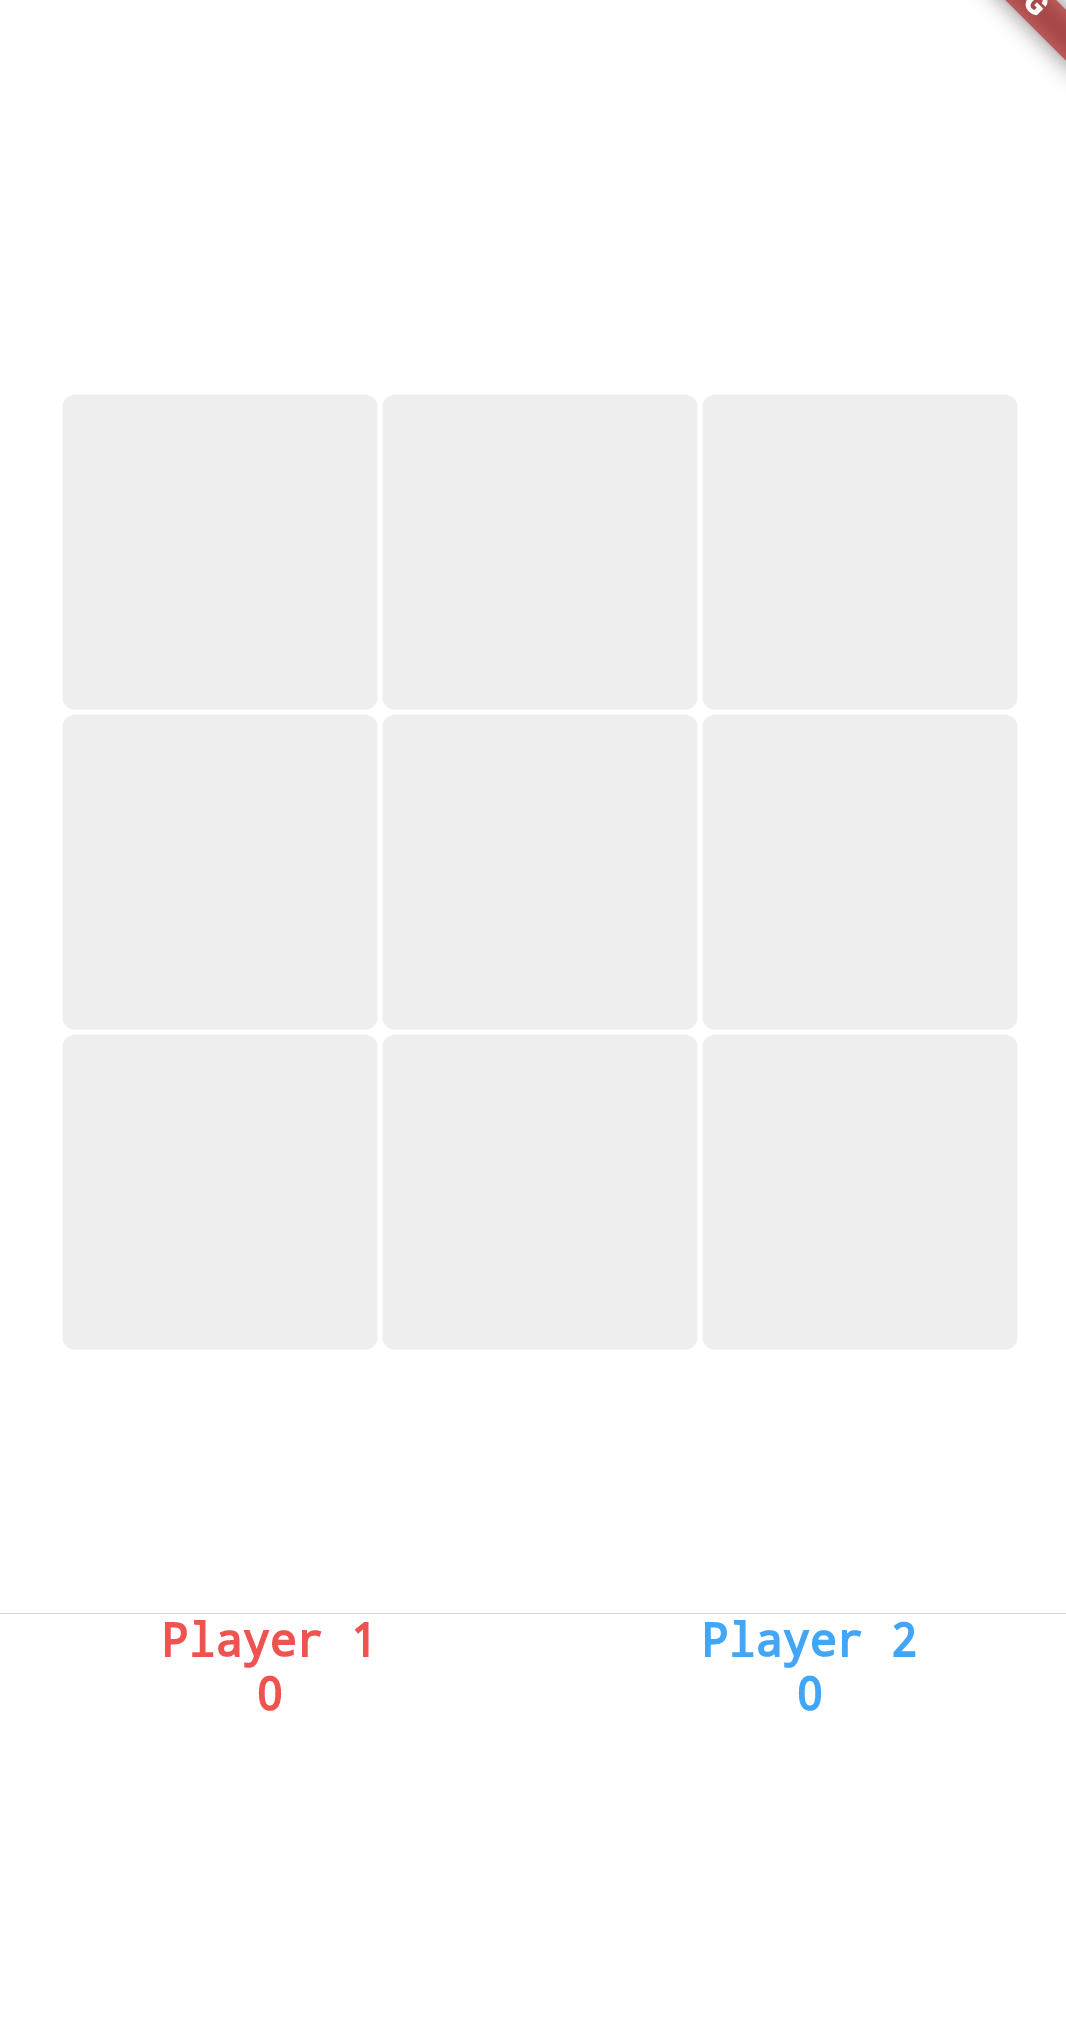
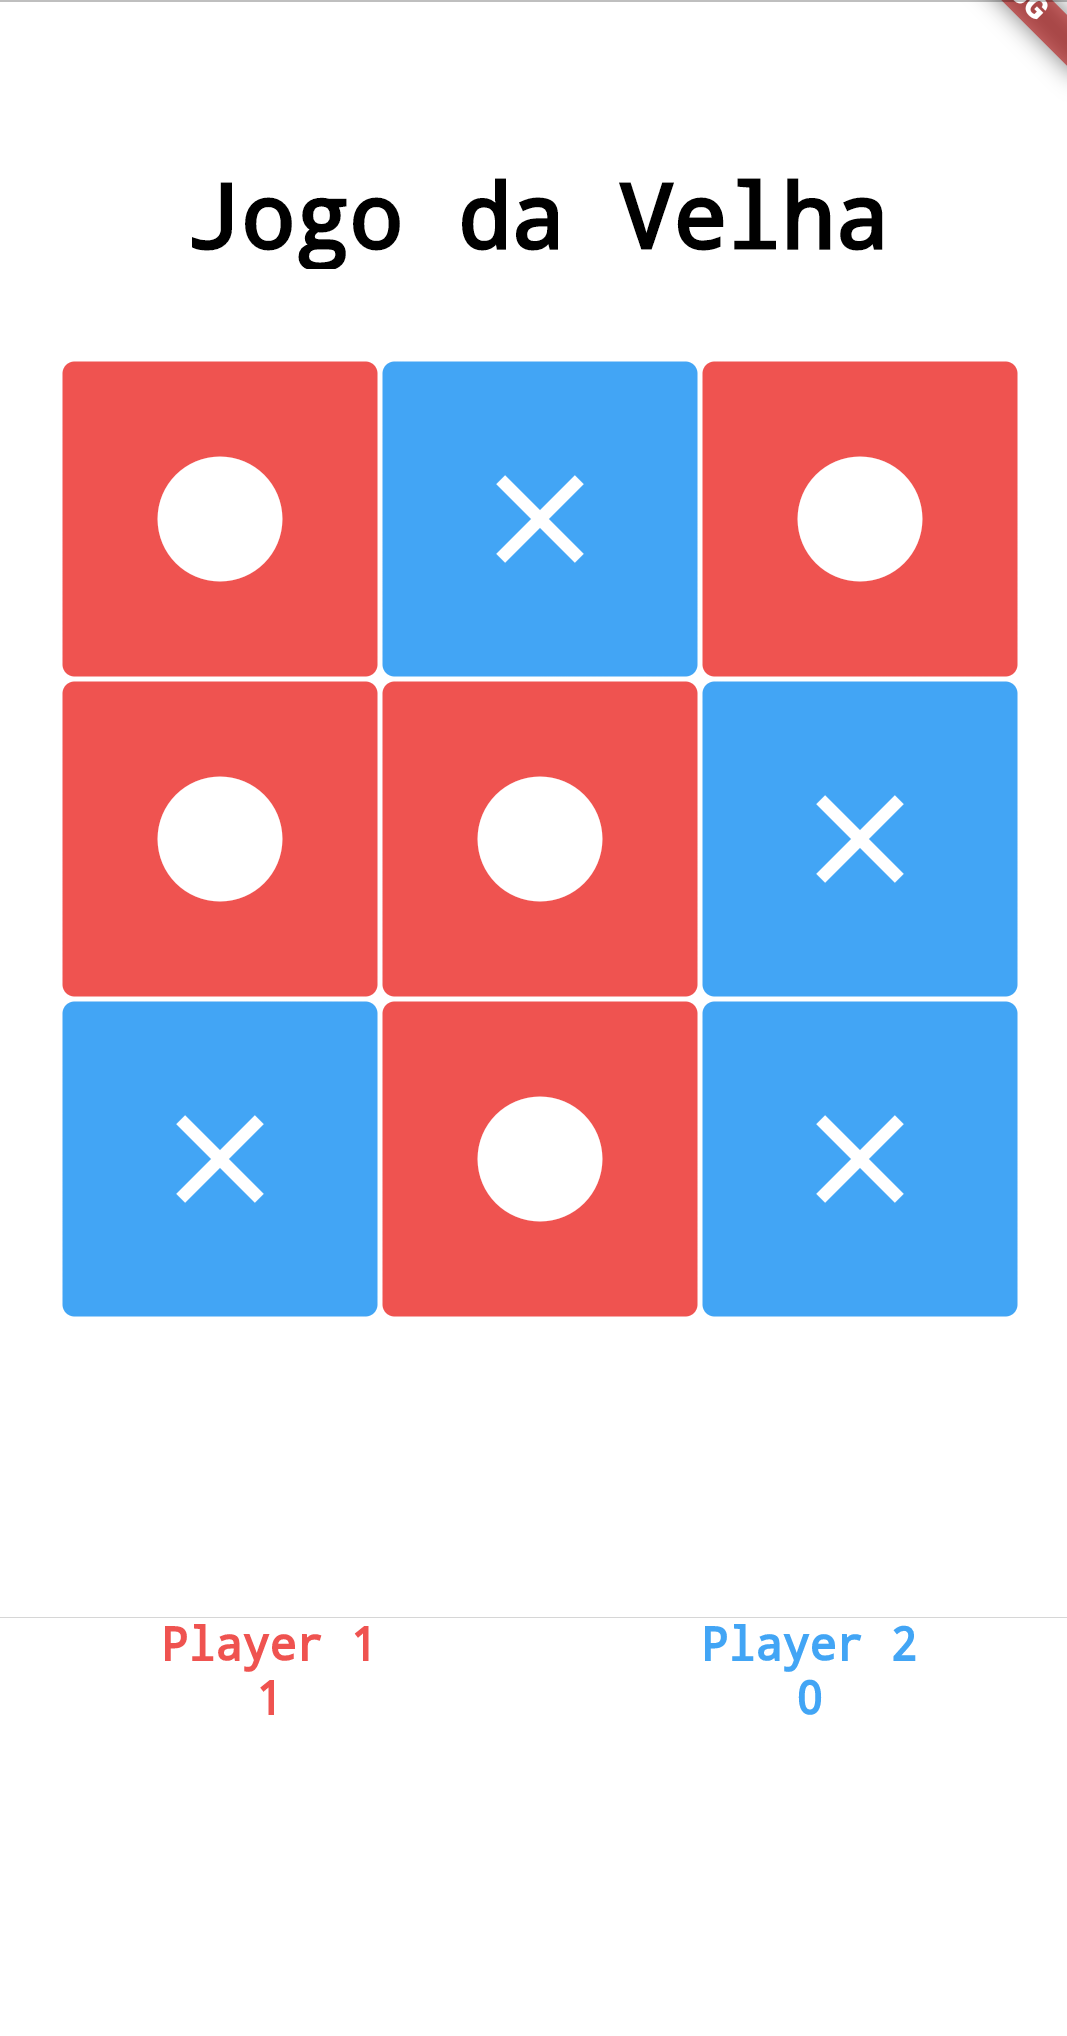
new images

diff --git a/lib/main.dart b/lib/main.dart
@@ -10,7 +10,7 @@ class MyApp extends StatelessWidget {
   @override
   Widget build(BuildContext context) {
     return MaterialApp(
-      title: 'Flutter Demo',
+      title: 'Jogo da velha',
       theme: ThemeData(
         primarySwatch: Colors.blue,
       ),
